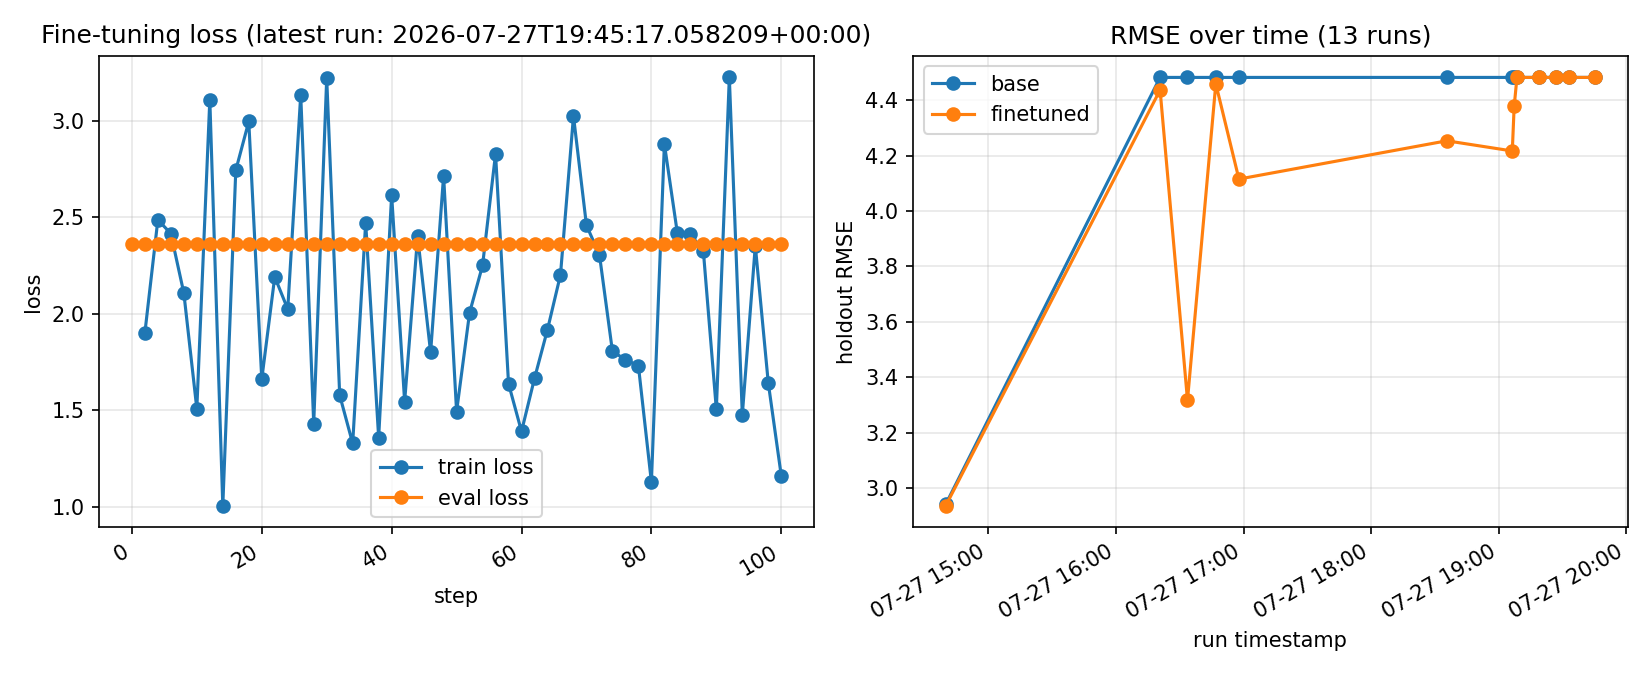
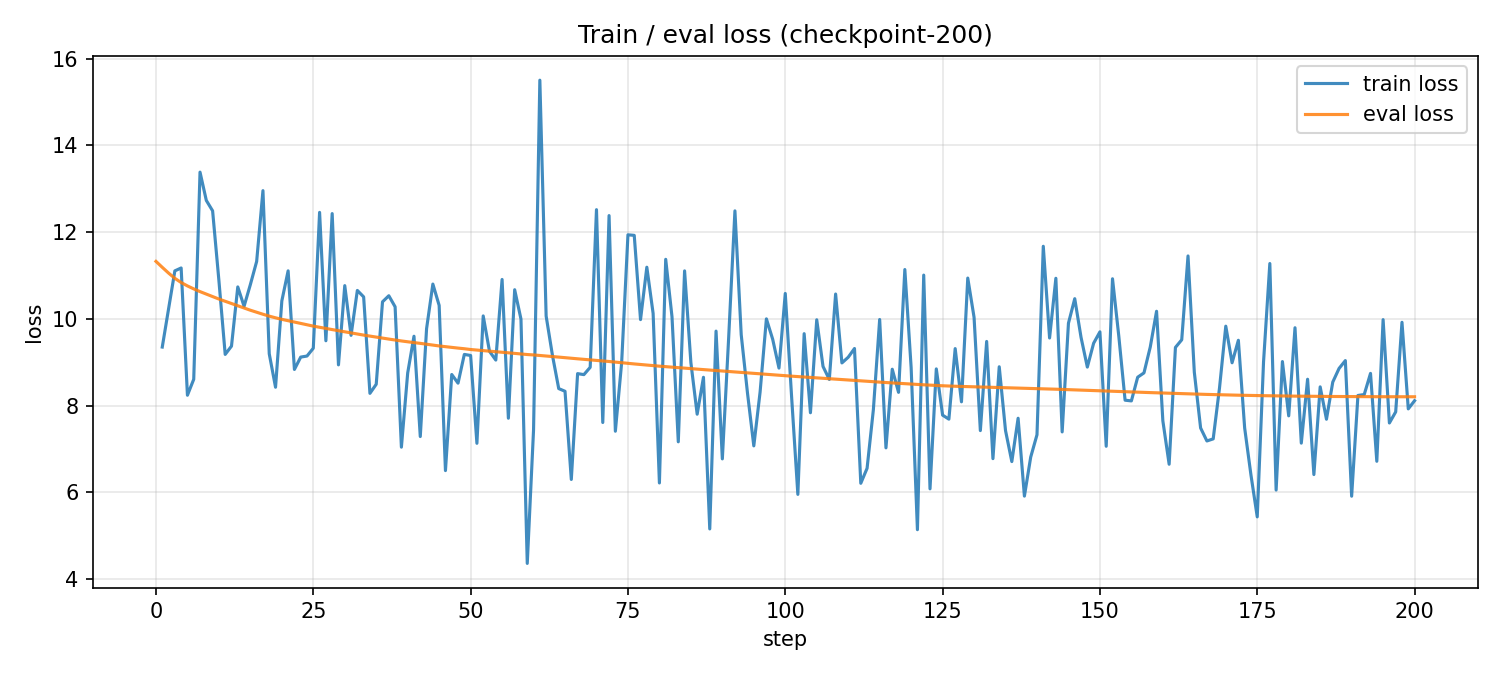
choronos form scratch test over night

diff --git a/stocks/algorithm/trainer/chronos_finetune.py b/stocks/algorithm/trainer/chronos_finetune.py
@@ -1,8 +1,7 @@
-"""Smoke-test Chronos-2 fine-tuning on tiny mock series."""
+"""Overnight Chronos-2 from-scratch training on the 11700 US stocks split."""
 from __future__ import annotations
 
-import json
-from datetime import datetime, timezone
+import random
 from pathlib import Path
 
 from chronos.chronos2 import Chronos2Model, Chronos2Pipeline
@@ -10,17 +9,40 @@ import pandas as pd
 import torch
 from transformers import AutoConfig
 
-# --- mock data (same dict shape as predict) ---------------------------------
-# Each dict = one series. "target" is what Chronos learns to forecast.
-# "past_covariates" are extra history channels (not forecast).
+# --- data ------------------------------------------------------------------
 PREDICTION_LENGTH = 16
-FROM_SCRATCH = True # Traines a chronos-2 architecture from scratch
+FROM_SCRATCH = True
+DATA_PATH = "stocks/algorithm/datasets/data/us_stocks/training/11700"
+TARGET = "stock"
+PAST_COVARIATES = ["volume"]
 
-"""
-Turn store-sager-stocks data format into chronos
-"""
-path = "stocks/algorithm/datasets/data/us_stocks/training/32"
-target = "stock" # the first always being the target
+# --- training --------------------------------------------------------------
+LEARNING_RATE = 1e-4  # from-scratch full train; use ~1e-5 for LoRA on pretrained
+FINETUNE_MODE = "lora"  # ignored when FROM_SCRATCH (forced to full)
+BATCH_SIZE = 16  # counts target+covariate channels → ~8 ticker-pairs / step
+NUM_STEPS = 80_000
+CONTEXT_LENGTH = 1024
+EVAL_SUBSET = 512
+EVAL_SEED = 0
+
+LOGGING_STEPS = 50
+EVAL_STEPS = 500
+SAVE_STEPS = 1000
+
+LORA_CONFIG = {
+    "r": 8,
+    "lora_alpha": 16,
+    "target_modules": [
+        "self_attention.q",
+        "self_attention.v",
+        "self_attention.k",
+        "self_attention.o",
+        "output_patch_embedding.output_layer",
+    ],
+}
+
+STOCKS_DIR = Path(__file__).resolve().parents[2]
+OUTPUT_DIR = STOCKS_DIR / "artifacts" / "chronos" / "runs" / "from-scratch-11700"
 
 
 def _build_inputs(target_df, cov_dfs):
@@ -40,8 +62,8 @@ def _build_inputs(target_df, cov_dfs):
         })
     return inputs
 
+
 def SS_dataformat_to_chronos(dic_path, target, past_covariates):
-    # load *_train.csv / *_val.csv
     target_train_df = pd.read_csv(dic_path + "/" + target + "_train.csv", index_col=0)
     target_val_df = pd.read_csv(dic_path + "/" + target + "_val.csv", index_col=0)
 
@@ -54,159 +76,79 @@ def SS_dataformat_to_chronos(dic_path, target, past_covariates):
     return train_input, val_input
 
 
-train_inputs, val_inputs = SS_dataformat_to_chronos(path, target, past_covariates=["volume"])
-
-# --- training config ---------------------------------------------------------
-LEARNING_RATE = 1e-5  # Chronos recommends ~1e-5 for LoRA (1e-6 for full)
-FINETUNE_MODE = "lora"  # needs `peft`; falls back to full if missing
-EPOCHS = 100
-BATCH_SIZE = 16
-trainset_size = len(train_inputs)
-NUM_STEPS = (trainset_size // BATCH_SIZE) * EPOCHS  # total update steps
-
-# Same modules Chronos uses by default; dict is passed to peft.LoraConfig(**LORA_CONFIG).
-LORA_CONFIG = {
-    "r": 8,
-    "lora_alpha": 16,
-    "target_modules": [
-        "self_attention.q",
-        "self_attention.v",
-        "self_attention.k",
-        "self_attention.o",
-        "output_patch_embedding.output_layer",
-    ],
-}
-
-STOCKS_DIR = Path(__file__).resolve().parents[2]
-OUTPUT_DIR = STOCKS_DIR / "artifacts" / "chronos" / "runs" / "mock-lora-smoke"
+def _filter_min_length(inputs: list[dict], min_length: int) -> list[dict]:
+    return [row for row in inputs if len(row["target"]) >= min_length]
 
 
-def holdout_rmse(
-    pipeline: Chronos2Pipeline,
-    val_inputs: list[dict],
-    *,
-    prediction_length: int,
-) -> float:
-    """Hold out the last ``prediction_length`` target steps; RMSE of p50 vs actuals."""
-    actuals: list[float] = []
-    preds: list[float] = []
+def _sample_eval_subset(val_inputs: list[dict], k: int, seed: int) -> list[dict]:
+    if k >= len(val_inputs):
+        return val_inputs
+    rng = random.Random(seed)
+    indices = rng.sample(range(len(val_inputs)), k=k)
+    return [val_inputs[i] for i in indices]
 
-    for row in val_inputs:
-        target = list(row["target"])
-        if len(target) <= prediction_length:
-            continue
-        history = target[:-prediction_length]
-        actuals.extend(target[-prediction_length:])
-
-        inp: dict = {"target": history}
-        if "past_covariates" in row:
-            inp["past_covariates"] = {
-                name: list(values)[:-prediction_length]
-                for name, values in row["past_covariates"].items()
-            }
-
-        _, medians = pipeline.predict_quantiles(
-            [inp],
-            prediction_length=prediction_length,
-            quantile_levels=[0.5],
-        )
-        preds.extend(medians[0][0].tolist())
-
-    n = len(actuals)
-    mse = sum((a - p) ** 2 for a, p in zip(actuals, preds)) / n
-    return mse ** 0.5
 
 def main() -> None:
-    # prefer GPU when available; fall back to CPU
+    min_train_len = PREDICTION_LENGTH * 2  # matches Chronos default min_past=prediction_length
+    print(f"Loading data from {DATA_PATH} ...")
+    train_inputs, val_inputs = SS_dataformat_to_chronos(DATA_PATH, TARGET, PAST_COVARIATES)
+    train_inputs = _filter_min_length(train_inputs, min_train_len)
+    val_inputs = _filter_min_length(val_inputs, PREDICTION_LENGTH + 1)
+    val_inputs_eval = _sample_eval_subset(val_inputs, EVAL_SUBSET, EVAL_SEED)
+
+    print(
+        f"Train series: {len(train_inputs)} | "
+        f"Val series: {len(val_inputs)} | "
+        f"Eval subset: {len(val_inputs_eval)}"
+    )
+    print(
+        f"Steps: {NUM_STEPS} | batch_size: {BATCH_SIZE} | "
+        f"lr: {LEARNING_RATE} | context_length: {CONTEXT_LENGTH}"
+    )
+
     cuda_available = torch.cuda.is_available()
     device = "cuda" if cuda_available else "cpu"
     device_map = "auto" if cuda_available else "cpu"
-    print(f"CUDA available: {cuda_available}; loading model with device_map={device_map}")
-    
+    print(f"CUDA available: {cuda_available}; device={device}")
+
     if not FROM_SCRATCH:
         pipeline = Chronos2Pipeline.from_pretrained("amazon/chronos-2", device_map=device_map)
+        finetune_mode = FINETUNE_MODE
+        lora_config = LORA_CONFIG if finetune_mode == "lora" else None
         print(f"Loaded Chronos-2 model with {sum(p.numel() for p in pipeline.model.parameters()):,} parameters")
     else:
         config = AutoConfig.from_pretrained("amazon/chronos-2")
         model = Chronos2Model(config).to(device)
         pipeline = Chronos2Pipeline(model=model)
+        finetune_mode = "full"
+        lora_config = None
         print(f"From-scratch Chronos-2 with {sum(p.numel() for p in pipeline.model.parameters()):,} parameters")
 
-    #base_rmse = holdout_rmse(pipeline, val_inputs, prediction_length=PREDICTION_LENGTH)
-    #print(f"val RMSE (base):      {base_rmse:.4f}")
-
-
+    OUTPUT_DIR.mkdir(parents=True, exist_ok=True)
     finetuned = pipeline.fit(
         inputs=train_inputs,
-        validation_inputs=val_inputs,
+        validation_inputs=val_inputs_eval,
         prediction_length=PREDICTION_LENGTH,
-        finetune_mode=FINETUNE_MODE if not FROM_SCRATCH else "full",
-        lora_config=LORA_CONFIG if not FROM_SCRATCH else None,
+        finetune_mode=finetune_mode,
+        lora_config=lora_config,
         learning_rate=LEARNING_RATE,
         num_steps=NUM_STEPS,
         batch_size=BATCH_SIZE,
+        context_length=CONTEXT_LENGTH,
         output_dir=OUTPUT_DIR,
-
-         #Logging / eval / save controls:
-        logging_strategy="steps",     # "steps" or "epoch" or "no"
-        logging_steps=1,            # when strategy="steps", how often to log
-        logging_first_step=True,     # log the very first step
-        log_level="info",            # optional: "debug"|"info"|"warning" etc.
-
+        logging_strategy="steps",
+        logging_steps=LOGGING_STEPS,
+        logging_first_step=True,
+        log_level="info",
         eval_strategy="steps",
-        eval_steps=1,  # ~0.25 epoch for our mock data
-        eval_on_start=True, 
-
+        eval_steps=EVAL_STEPS,
+        eval_on_start=True,
+        save_steps=SAVE_STEPS,
     )
 
     ckpt = OUTPUT_DIR / "finetuned-ckpt"
     print(f"Saved to {ckpt}")
-    #finetuned_rmse = holdout_rmse(finetuned, val_inputs, prediction_length=PREDICTION_LENGTH)
-    #print(f"val RMSE (finetuned): {finetuned_rmse:.4f}")
-
-    #save_metrics(base_rmse, finetuned_rmse)
-
-
-def save_metrics(base_rmse: float, finetuned_rmse: float) -> None:
-    """Collect train/eval loss curves (from the Trainer's checkpoint) plus RMSE
-    before/after fine-tuning, and append them as a new run entry to
-    ``OUTPUT_DIR/metrics_history.json`` so metrics accumulate across runs over time."""
-    checkpoints = sorted(
-        OUTPUT_DIR.glob("checkpoint-*"),
-        key=lambda p: int(p.name.split("-")[-1]),
-    )
-
-    log_history: list[dict] = []
-    if checkpoints:
-        state_path = checkpoints[-1] / "trainer_state.json"
-        if state_path.exists():
-            log_history = json.loads(state_path.read_text())["log_history"]
-
-    train_steps = [e["step"] for e in log_history if "loss" in e]
-    train_loss = [e["loss"] for e in log_history if "loss" in e]
-    eval_steps = [e["step"] for e in log_history if "eval_loss" in e]
-    eval_loss = [e["eval_loss"] for e in log_history if "eval_loss" in e]
-
-    run_entry = {
-        "timestamp": datetime.now(timezone.utc).isoformat(),
-        "num_steps": NUM_STEPS,
-        "batch_size": BATCH_SIZE,
-        "learning_rate": LEARNING_RATE,
-        "finetune_mode": FINETUNE_MODE,
-        "base_rmse": base_rmse,
-        "finetuned_rmse": finetuned_rmse,
-        "train_steps": train_steps,
-        "train_loss": train_loss,
-        "eval_steps": eval_steps,
-        "eval_loss": eval_loss,
-    }
-
-    OUTPUT_DIR.mkdir(parents=True, exist_ok=True)
-    history_path = OUTPUT_DIR / "metrics_history.json"
-    history = json.loads(history_path.read_text()) if history_path.exists() else []
-    history.append(run_entry)
-    history_path.write_text(json.dumps(history, indent=2))
-    print(f"Appended run metrics to {history_path} ({len(history)} runs recorded)")
+    _ = finetuned  # returned pipeline is the fine-tuned model
 
 
 if __name__ == "__main__":

diff --git a/stocks/algorithm/trainer/plot.py b/stocks/algorithm/trainer/plot.py
@@ -1,59 +1,61 @@
-"""Plot metrics produced by chronos_finetune.py, accumulated over time across runs."""
+"""Plot train/eval loss from a HuggingFace trainer_state.json checkpoint."""
 from __future__ import annotations
 
 import json
-from datetime import datetime
 from pathlib import Path
 
-import matplotlib.dates as mdates
 import matplotlib.pyplot as plt
 
 STOCKS_DIR = Path(__file__).resolve().parents[2]
-OUTPUT_DIR = STOCKS_DIR / "artifacts" / "chronos" / "runs" / "mock-lora-smoke"
-HISTORY_PATH = OUTPUT_DIR / "metrics_history.json"
+OUTPUT_DIR = STOCKS_DIR / "artifacts" / "chronos" / "runs" / "from-scratch-11700"
 
 
-def load_history(path: Path = HISTORY_PATH) -> list[dict]:
+def latest_trainer_state(output_dir: Path = OUTPUT_DIR) -> Path:
+    checkpoints = sorted(
+        output_dir.glob("checkpoint-*"),
+        key=lambda p: int(p.name.split("-")[-1]),
+    )
+    if not checkpoints:
+        raise FileNotFoundError(f"No checkpoint-* dirs under {output_dir}")
+    state_path = checkpoints[-1] / "trainer_state.json"
+    if not state_path.exists():
+        raise FileNotFoundError(f"No trainer_state.json in {checkpoints[-1]}")
+    return state_path
+
+
+def load_loss_curves(path: Path) -> tuple[list[int], list[float], list[int], list[float]]:
     if not path.exists():
-        raise FileNotFoundError(
-            f"No metrics history at {path}. Run chronos_finetune.py first to generate it."
-        )
-    return json.loads(path.read_text())
+        raise FileNotFoundError(f"No trainer state at {path}. Run chronos_finetune.py first.")
+
+    log_history = json.loads(path.read_text())["log_history"]
+    train_steps = [e["step"] for e in log_history if "loss" in e]
+    train_loss = [e["loss"] for e in log_history if "loss" in e]
+    eval_steps = [e["step"] for e in log_history if "eval_loss" in e]
+    eval_loss = [e["eval_loss"] for e in log_history if "eval_loss" in e]
+    return train_steps, train_loss, eval_steps, eval_loss
 
 
-def plot_history(history: list[dict], save_path: Path | None = None) -> None:
-    fig, axes = plt.subplots(1, 2, figsize=(11, 4.5))
+def plot_loss_curves(
+    train_steps: list[int],
+    train_loss: list[float],
+    eval_steps: list[int],
+    eval_loss: list[float],
+    *,
+    save_path: Path | None = None,
+    title: str = "Train / eval loss",
+) -> None:
+    fig, ax = plt.subplots(figsize=(10, 4.5))
 
-    latest = history[-1]
+    if train_steps:
+        ax.plot(train_steps, train_loss, label="train loss", alpha=0.85)
+    if eval_steps:
+        ax.plot(eval_steps, eval_loss, label="eval loss", alpha=0.85)
 
-    # --- latest run's loss curve ------------------------------------------
-    ax = axes[0]
-    if latest["train_steps"]:
-        ax.plot(latest["train_steps"], latest["train_loss"], marker="o", label="train loss")
-    if latest["eval_steps"]:
-        ax.plot(latest["eval_steps"], latest["eval_loss"], marker="o", label="eval loss")
     ax.set_xlabel("step")
     ax.set_ylabel("loss")
-    ax.set_title(f"Fine-tuning loss (latest run: {latest['timestamp']})")
+    ax.set_title(title)
     ax.legend()
     ax.grid(True, alpha=0.3)
-
-    # --- RMSE over time, across runs --------------------------------------
-    ax = axes[1]
-    timestamps = [datetime.fromisoformat(e["timestamp"]) for e in history]
-    base = [e["base_rmse"] for e in history]
-    finetuned = [e["finetuned_rmse"] for e in history]
-
-    ax.plot(timestamps, base, marker="o", label="base")
-    ax.plot(timestamps, finetuned, marker="o", label="finetuned")
-    ax.set_xlabel("run timestamp")
-    ax.set_ylabel("holdout RMSE")
-    ax.set_title(f"RMSE over time ({len(history)} runs)")
-    ax.legend()
-    ax.grid(True, alpha=0.3)
-    ax.xaxis.set_major_formatter(mdates.DateFormatter("%m-%d %H:%M"))
-    fig.autofmt_xdate()
-
     fig.tight_layout()
 
     if save_path is not None:
@@ -64,6 +66,13 @@ def plot_history(history: list[dict], save_path: Path | None = None) -> None:
 
 
 if __name__ == "__main__":
-    history = load_history()
-    plot_history(history, save_path=OUTPUT_DIR / "metrics.png")
-
+    state_path = latest_trainer_state()
+    train_steps, train_loss, eval_steps, eval_loss = load_loss_curves(state_path)
+    plot_loss_curves(
+        train_steps,
+        train_loss,
+        eval_steps,
+        eval_loss,
+        save_path=OUTPUT_DIR / "metrics.png",
+        title=f"Train / eval loss ({state_path.parent.name})",
+    )
